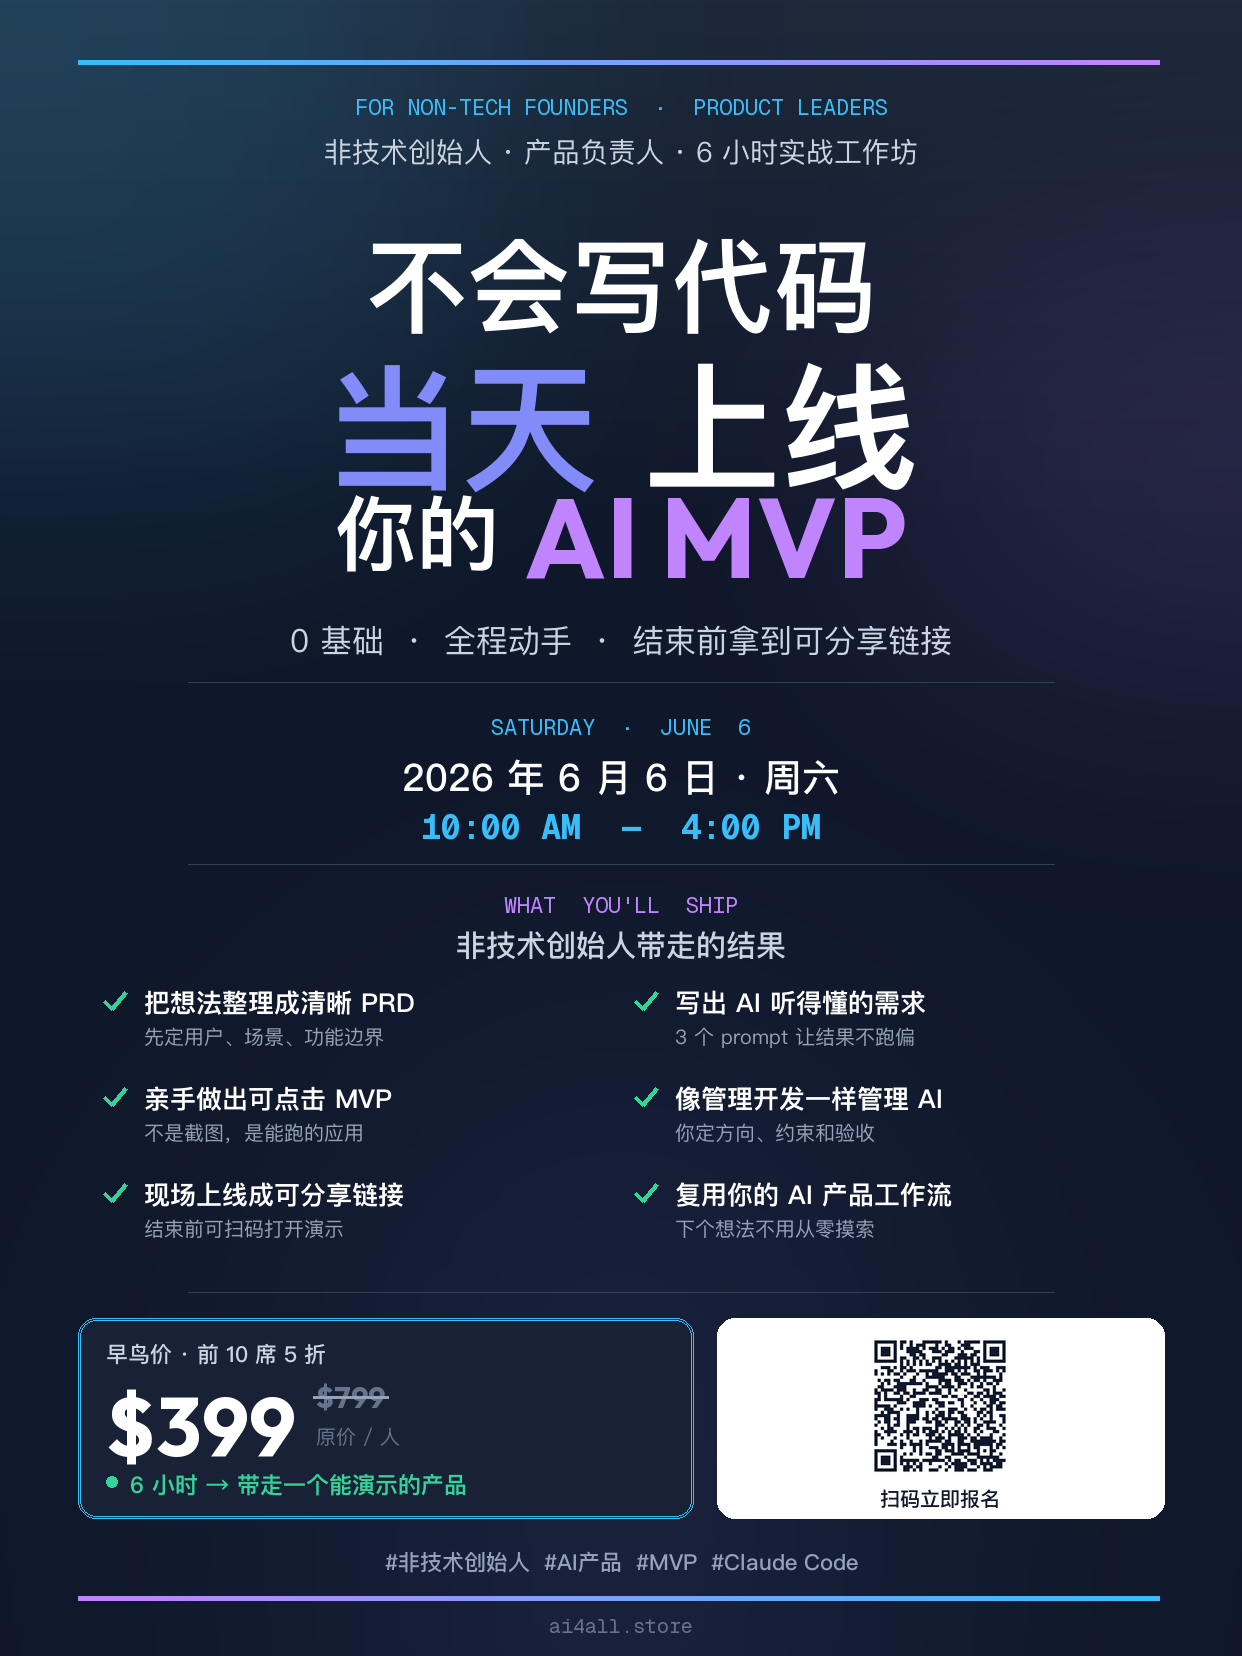
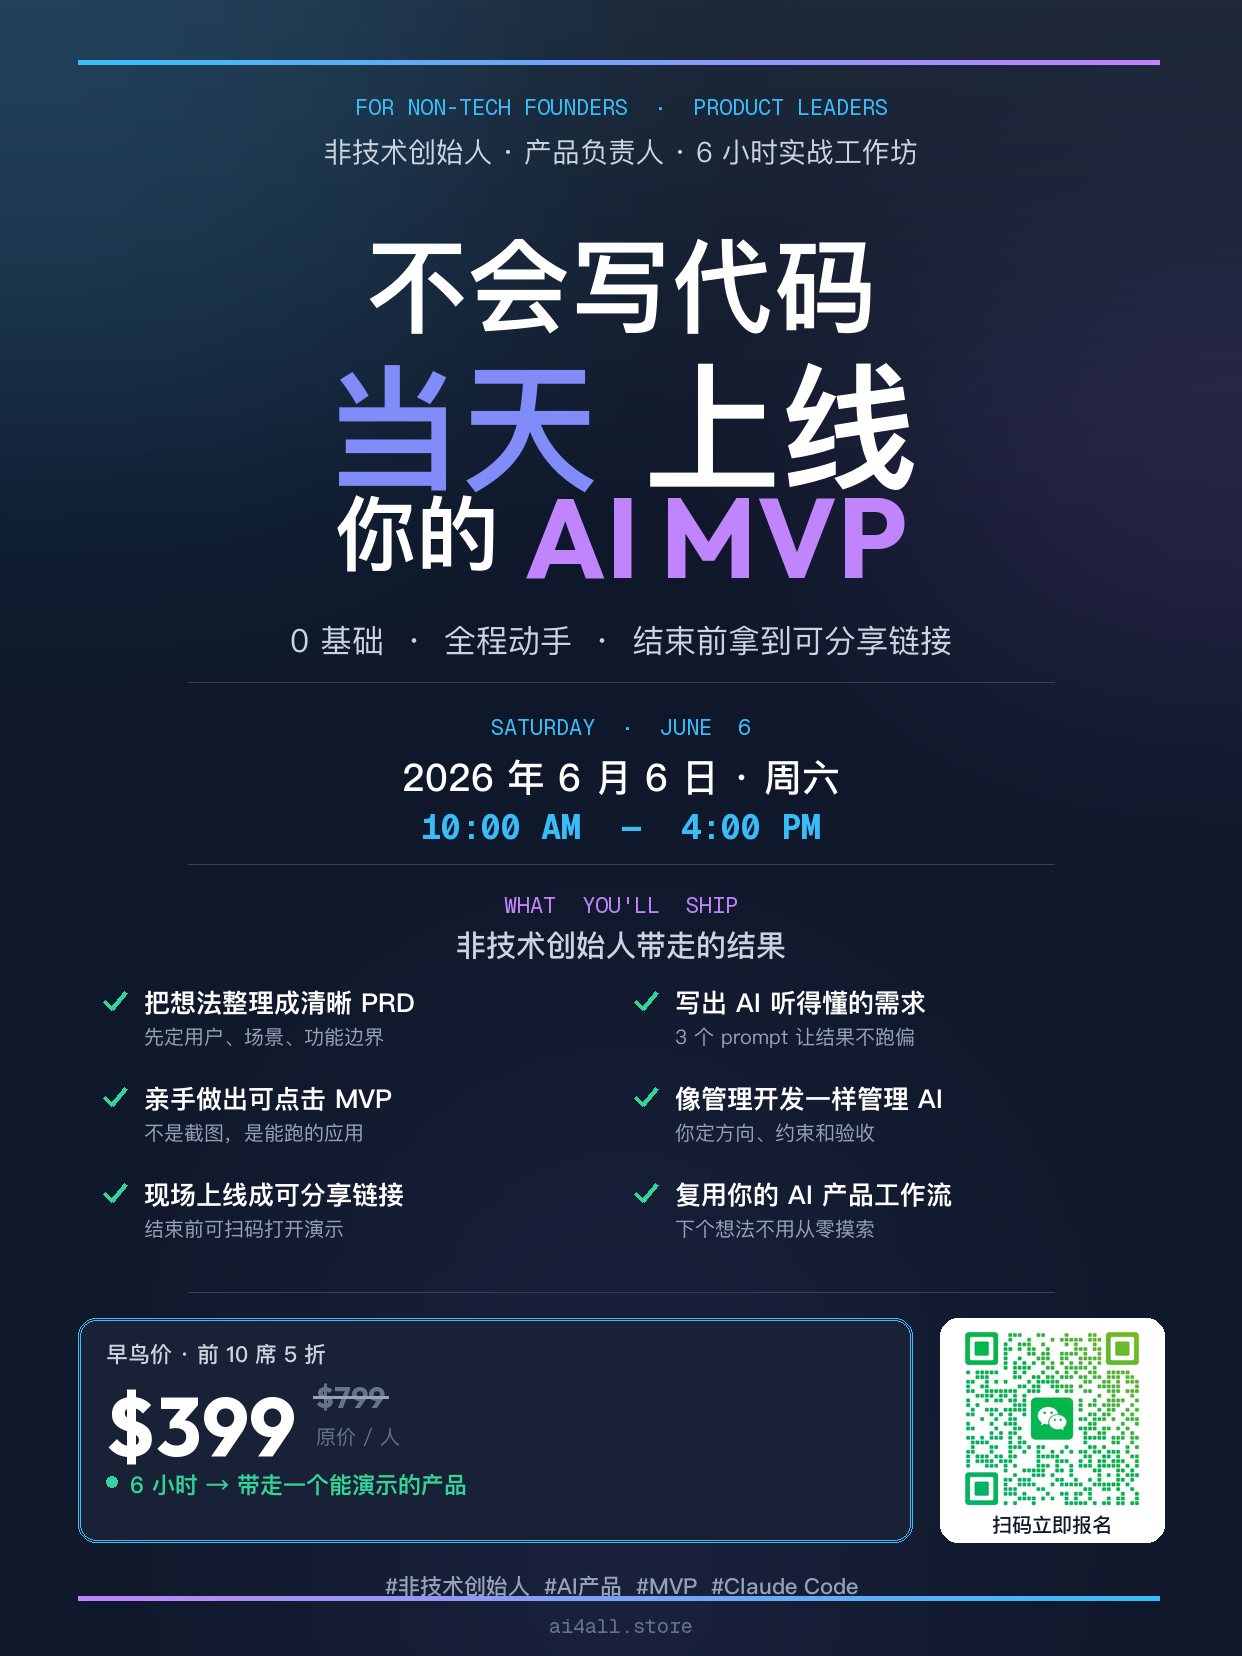
Use real WeChat QR + square QR card
Replace the procedurally generated Stripe QR with the supplied
WeChat QR (committed as docs/wechat-qr.png so the generator stays
reproducible). load_qr() trims the image's own white border so it
fills the card. The QR card is now a tight square instead of a wide
rectangle with ~150px of dead white per side; price panel absorbs
the freed width. Drops the qrcode dependency.

Changed region(s): [[0.306, 0.7699, 0.9485, 0.9855]]

diff --git a/docs/generate-xiaohongshu-flyer.py b/docs/generate-xiaohongshu-flyer.py
@@ -9,12 +9,12 @@ monumental headline; geometric mono (GeistMono) for the small metadata.
 
 import os
 
-import qrcode
 from PIL import Image, ImageDraw, ImageFont, ImageFilter
 
 # ---------- Paths ----------
 SCRIPT_DIR = os.path.dirname(os.path.abspath(__file__))
 OUTPUT_PNG = os.path.join(SCRIPT_DIR, "ai4all-xiaohongshu-cover.png")
+QR_IMG = os.path.join(SCRIPT_DIR, "wechat-qr.png")
 
 CANVAS_FONTS = os.path.expanduser(
     "~/.claude/plugins/cache/anthropic-agent-skills/document-skills/69c0b1a06741/skills/canvas-design/canvas-fonts"
@@ -107,12 +107,15 @@ def draw_centered(draw, y, s, font, fill):
 
 
 # ---------- QR ----------
-def make_qr(url, px):
-    qr = qrcode.QRCode(version=1, error_correction=qrcode.constants.ERROR_CORRECT_H, box_size=10, border=2)
-    qr.add_data(url)
-    qr.make(fit=True)
-    img = qr.make_image(fill_color=(15, 23, 42), back_color=(255, 255, 255)).convert("RGB")
-    return img.resize((px, px), Image.LANCZOS)
+def load_qr(path, px):
+    """Load the supplied QR, trim its own white border so the code fills
+    the card tightly, then square it to `px`."""
+    im = Image.open(path).convert("RGB")
+    mask = im.convert("L").point(lambda v: 0 if v > 240 else 255)
+    bbox = mask.getbbox()
+    if bbox:
+        im = im.crop(bbox)
+    return im.resize((px, px), Image.LANCZOS)
 
 
 # ---------- Build ----------
@@ -231,10 +234,16 @@ def build():
 
     # ===== PRICING + QR =====
     panel_top = bottom_div_y + 26
-    panel_h = 200
+    panel_h = 224
+
+    # QR is a square card on the right — sized to the code, not floating in
+    # a wide rectangle. Price panel absorbs the freed width.
+    PANEL_GAP = 28
+    qr_box_w = panel_h
+    qr_box_x = (W - MARGIN) - qr_box_w
 
     # Price panel (left)
-    price_w = int((W - 2 * MARGIN) * 0.58) - 14
+    price_w = qr_box_x - PANEL_GAP - MARGIN
     price_box = (MARGIN, panel_top, MARGIN + price_w, panel_top + panel_h)
     # Subtle inner luminance — a second hairline just inside
     round_rect(draw, price_box, 18, fill=BG_PANEL, outline=(56, 189, 248, 110), width=1)
@@ -270,20 +279,20 @@ def build():
     draw.text((px + 24, scar_y), "6 小时 → 带走一个能演示的产品",
               font=pf(23, PF_SC_SEMIBOLD), fill=EMERALD)
 
-    # QR panel (right) — larger QR, less padding
-    qr_box_x = MARGIN + price_w + 24
-    qr_box_w = (W - MARGIN) - qr_box_x
+    # QR panel (right) — square card, QR fills it edge-to-edge
     qr_box = (qr_box_x, panel_top, qr_box_x + qr_box_w, panel_top + panel_h)
     round_rect(draw, qr_box, 18, fill=WHITE)
-    qr_inner = min(qr_box_w - 28, panel_h - 56)
-    qr_img = make_qr("https://buy.stripe.com/6oU4gB3Wi7Fs5Rxa8y0gw08", qr_inner)
-    qr_x = qr_box_x + (qr_box_w - qr_inner) // 2
-    qr_y = panel_top + 16
-    img.paste(qr_img, (qr_x, qr_y))
     qr_label = "扫码立即报名"
     qr_label_font = pf(20, PF_SC_MEDIUM)
+    label_h = text_h(draw, qr_label, qr_label_font)
+    pad = 14
+    qr_inner = min(qr_box_w - 2 * pad, panel_h - pad - label_h - 16)
+    qr_img = load_qr(QR_IMG, qr_inner)
+    qr_x = qr_box_x + (qr_box_w - qr_inner) // 2
+    qr_y = panel_top + pad
+    img.paste(qr_img, (qr_x, qr_y))
     lw = text_w(draw, qr_label, qr_label_font)
-    draw.text((qr_box_x + (qr_box_w - lw) // 2, qr_y + qr_inner + 6),
+    draw.text((qr_box_x + (qr_box_w - lw) // 2, qr_y + qr_inner + 4),
               qr_label, font=qr_label_font, fill=(15, 23, 42))
 
     # ===== HASHTAGS =====
